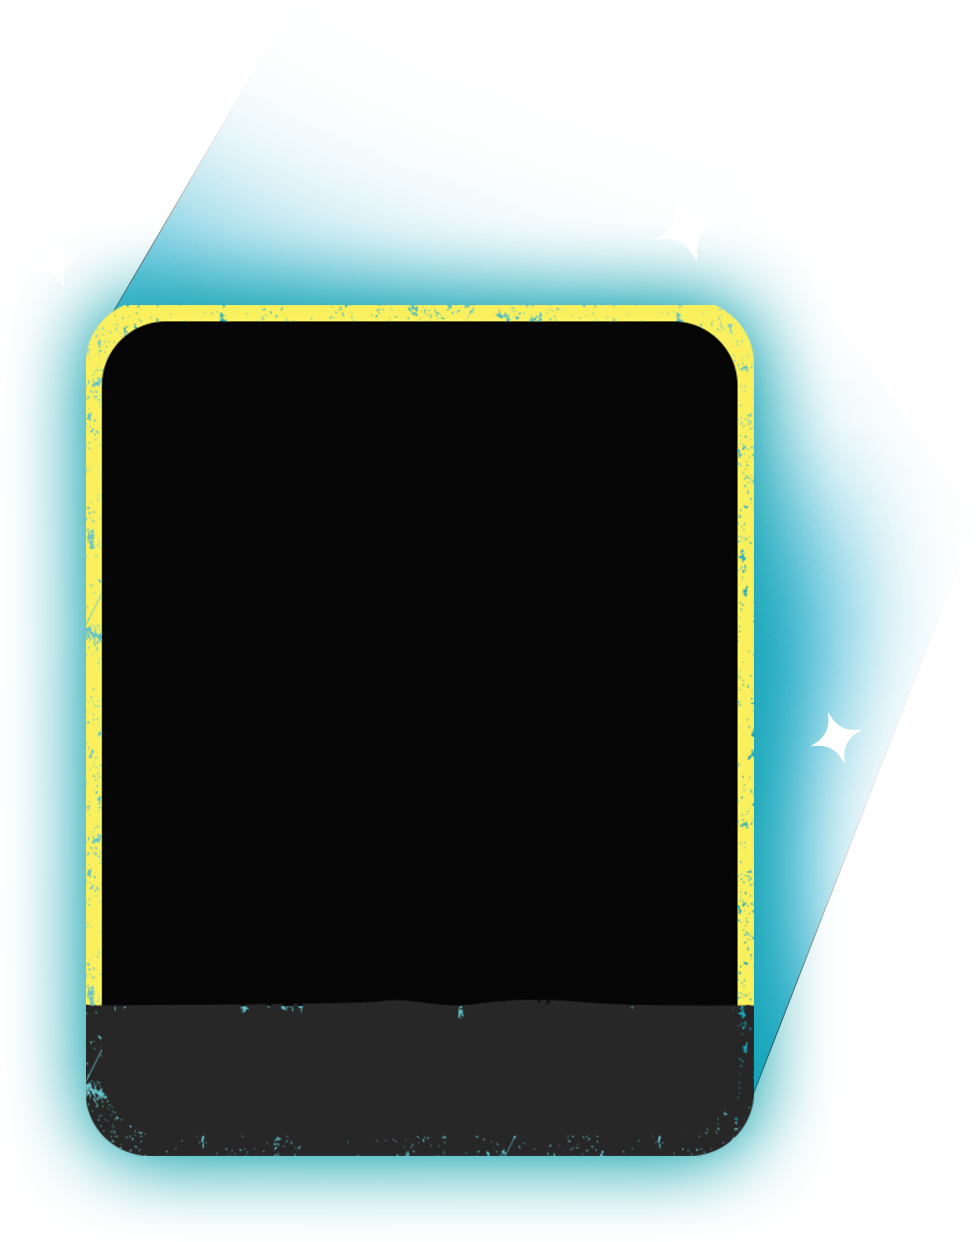
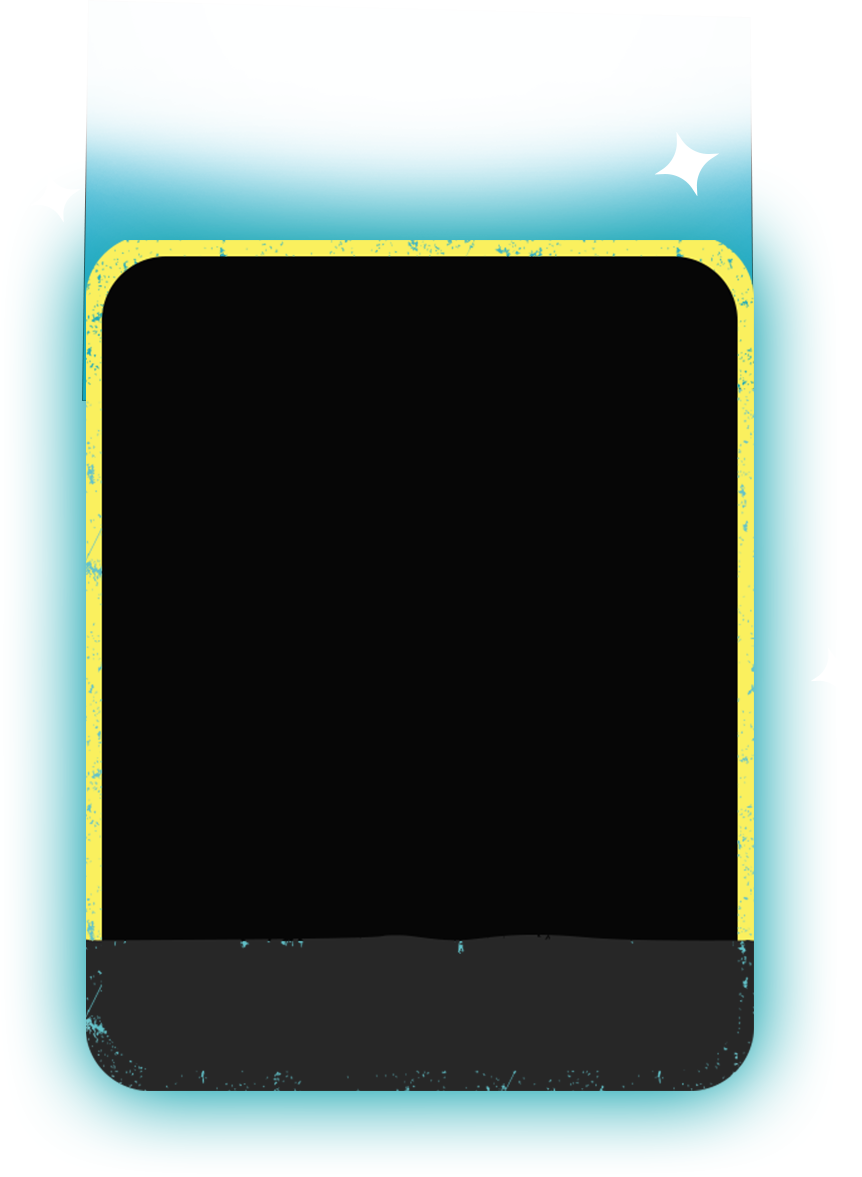
style library popup

Changed region(s): [[0.0603, 0.0918, 0.9652, 0.9788]]

diff --git a/pages/library.jsx b/pages/library.jsx
@@ -189,20 +189,61 @@ const Library = () => {
           ))}
         </div>
         <Popup isOpen={isPopupOpen} closePopup={() => setIsPopupOpen(false)}>
-          <h1 className="mt-2 text-xl">
-            You have successfully unlocked the song:
-          </h1>
-          <b className="text-nowrap" style={{ fontSize: "50px" }}>
-            {unlockedSong?.song_name}
-          </b>
+          <div className="flex justify-center flex-col items-center">
+            <h1 className="text-5xl popup-header tracking-wider">
+              You've Just Got
+            </h1>
+            <div className="flex flex-col justify-center items-center">
+              <Image
+                src={"/assets/img/library/Popup-Frame.png"}
+                width={320}
+                height={100}
+                alt="popup-frame"
+              />
+              <div className="flex flex-col justify-center items-center relative">
+                <p className="text-yellow uppercase text-xs text-nowrap absolute">
+                  {unlockedSong?.artist_name}
+                </p>
+                <p className="text-white ">{unlockedSong?.song_name}</p>
+              </div>
+            </div>
+          </div>
+          <div className="flex justify-center">
+            <p className="text-yellow text-center w-[80%]">
+              This song will unlock in icon 2:00m or use your gems to unlock it
+              now
+            </p>
+          </div>
           <button
             onClick={() => {
               setIsPopupOpen(false);
               router.push("/hub");
             }}
-            className="mt-3 px-6 py-3 bg-blue-500 text-white font-semibold text-xl rounded hover:bg-blue-600 focus:outline-none focus:ring-2 focus:ring-blue-700 focus:ring-opacity-50"
+            className="mb-3 relative"
           >
-            Go to my library
+            <Image
+              src={"/assets/img/library/Continue.png"}
+              width={250}
+              height={100}
+              alt="continue-btn"
+            />
+            <div className="absolute bottom-6">
+              <p className="text-yellow ml-2 font-bold text-md">20</p>
+            </div>
+          </button>
+          <button
+            onClick={() => {
+              setIsPopupOpen(false);
+              router.push("/hub");
+            }}
+            className=""
+          >
+            <Image
+              src={"/assets/img/library/Continue_button copy.png"}
+              width={150}
+              height={100}
+              alt="continue-btn"
+            />
           </button>
         </Popup>
         {/* <Popup isOpen={isPopupOpen} closePopup={() => setIsPopupOpen(false)}>

diff --git a/components/Popup.tsx b/components/Popup.tsx
@@ -14,24 +14,20 @@ const Popup = ({ isOpen, closePopup, children }) => {
         display: "flex",
         justifyContent: "center",
         alignItems: "center",
-        backgroundColor: "rgba(0, 0, 0, 0.5)",
+        backgroundColor: "rgba(0, 0, 0, 0.8)",
+        zIndex: 1000,
       }}
     >
       <div
         style={{
           display: "flex",
           flexDirection: "column",
-          padding: 20,
-          background: "white",
-          borderRadius: 5,
           justifyContent: "center",
           alignItems: "center",
-          boxShadow: "0 2px 8px rgba(0, 0, 0, 0.25)",
           zIndex: 1000,
         }}
       >
         {children}
-        {/* <button onClick={closePopup}>Close</button> */}
       </div>
     </div>
   );

diff --git a/pages/pages.css b/pages/pages.css
@@ -187,4 +187,19 @@
     margin: 0;
 }
 
+.popup-header {
+    color: rgb(255, 106, 0);
+    text-shadow: 1.636px 1.673px 0px #faf05d;
+    -moz-transform: matrix(1.24224541509235, -0.00527636487041, 0.00527636487041, 1.24224541509236, 0, 0);
+    -webkit-transform: matrix(1.24224541509235, -0.00527636487041, 0.00527636487041, 1.24224541509236, 0, 0);
+    -ms-transform: matrix(1.24224541509235, -0.00527636487041, 0.00527636487041, 1.24224541509236, 0, 0);
+    transform: matrix(1.24224541509235, -0.00527636487041, 0.00527636487041, 1.24224541509236, 0, 0);
+}
+
+.popup-frame {
+    background-image: url("/assets/img/library/popup-frame.png");
+    width: 100%;
+    height: auto;
+}
+
 /* LIBRARY PAGE END  */
